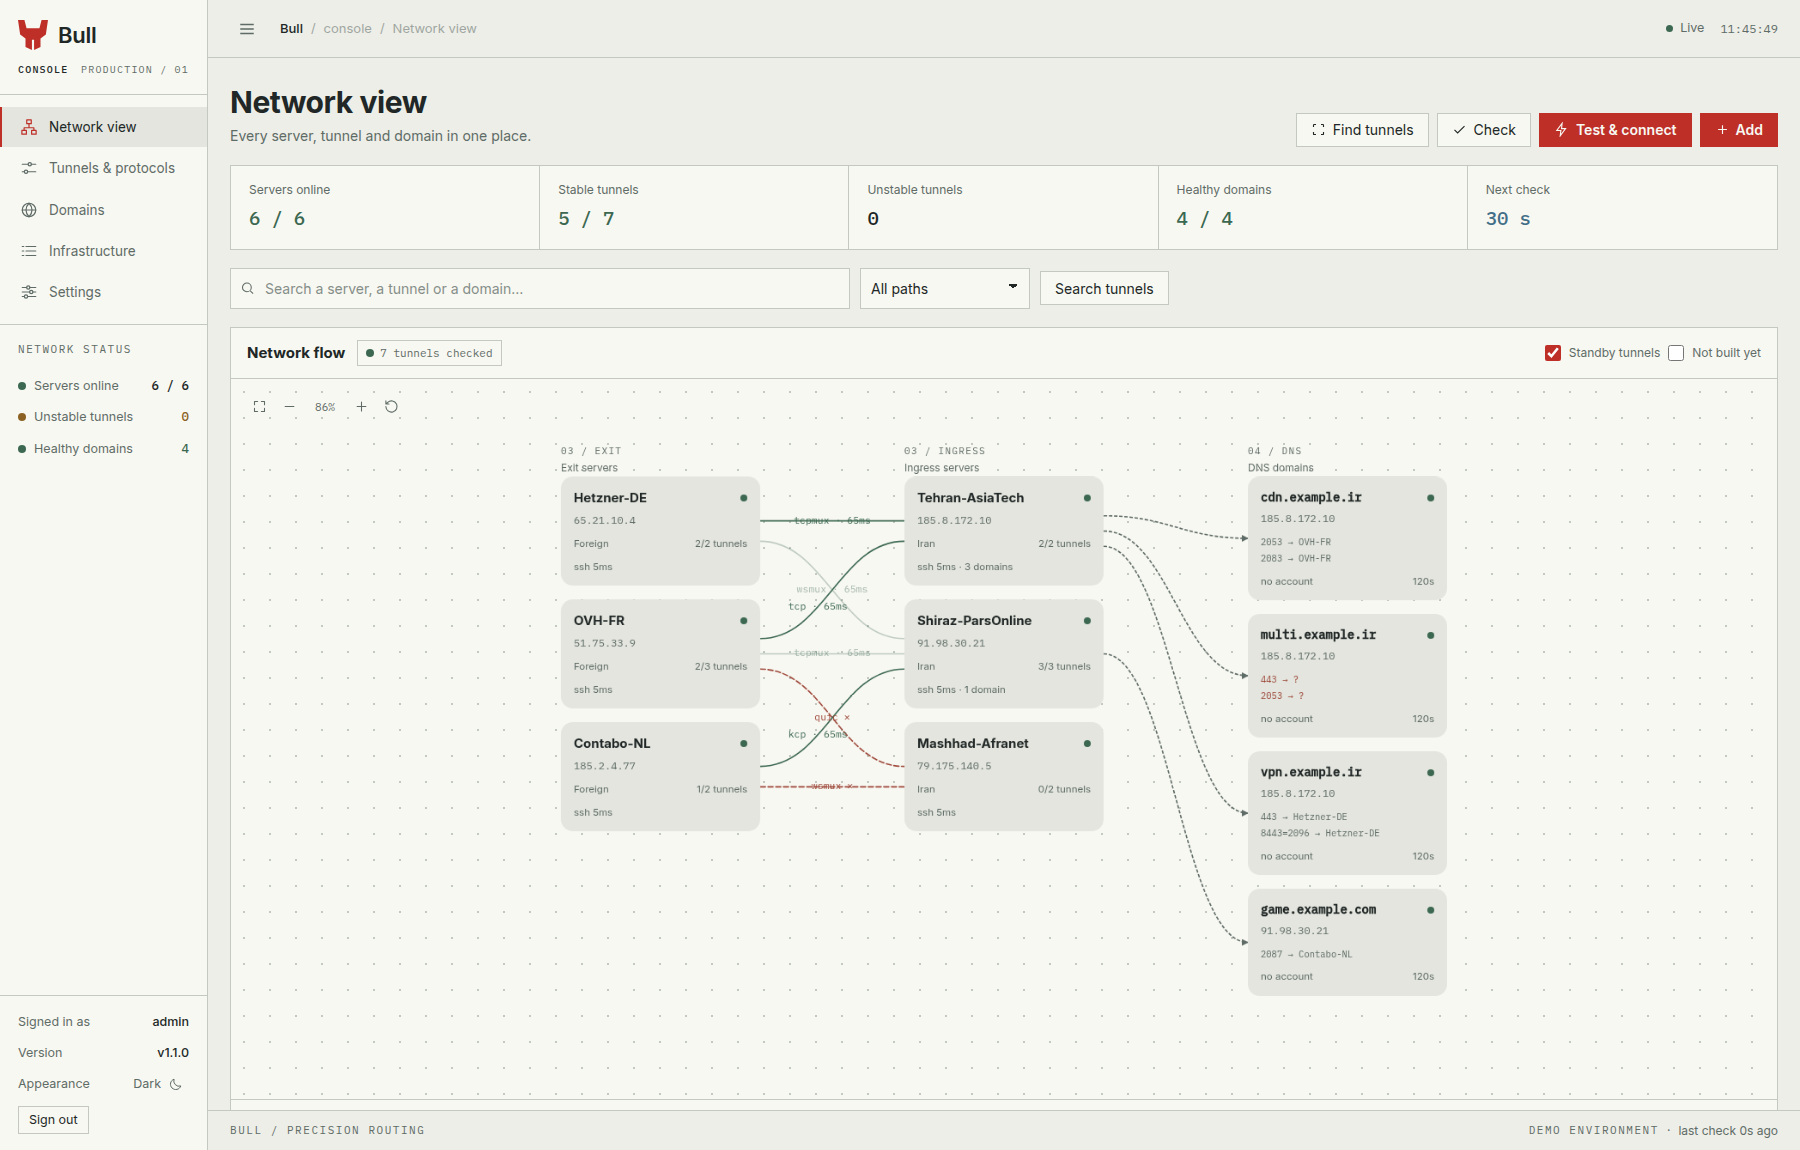
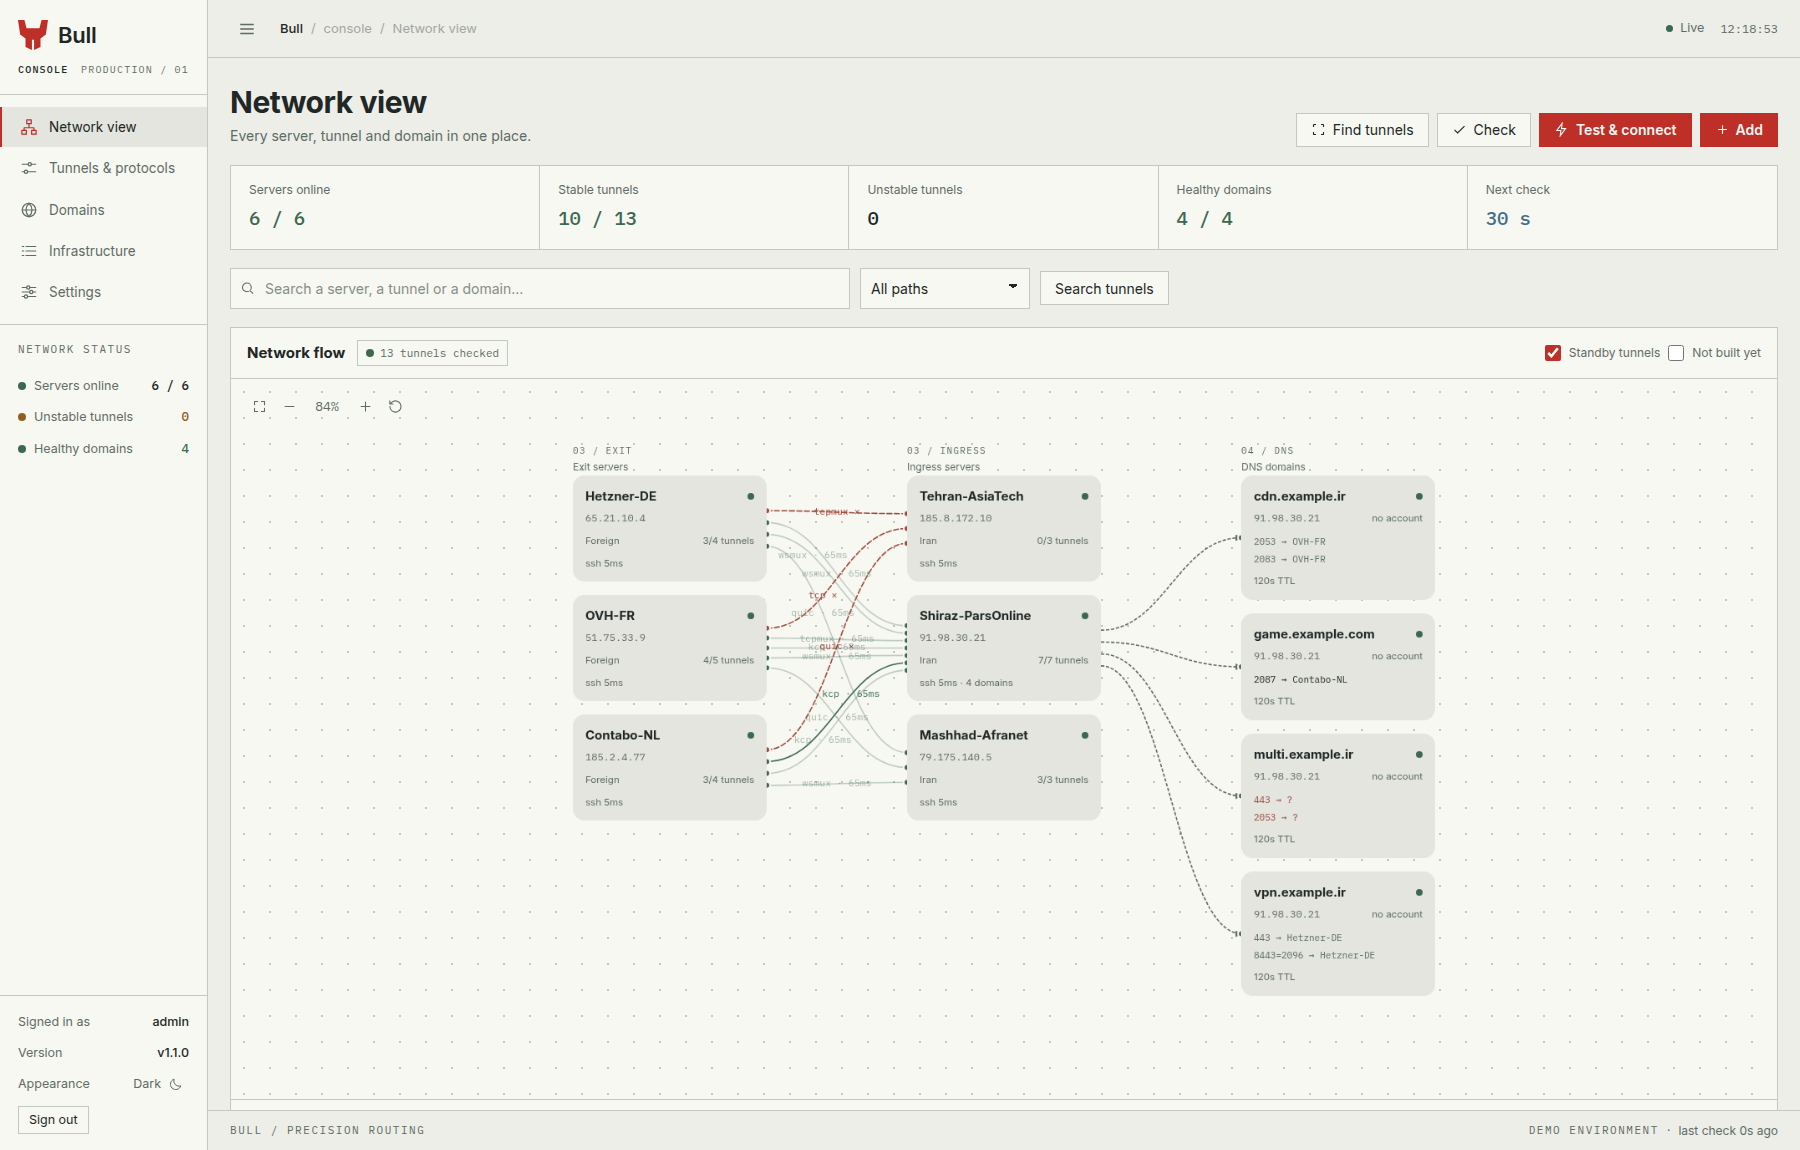
panel: the details of the nodes of the graph
The type-1 graph draws the points where a wire meets a card, in the
colour of the wire: they say which side of the card the path uses. The
cards of the panel had no such points.

The card of a domain had the wrong shape too: the name was written in
the monospace face, the DNS account sat under the address in a chip, and
every route was quiet — so the route the traffic really uses did not
stand out from the ones that are only there. The name is in the panel's
own face now, the address is on the left and the DNS account on the
right, and the route that carries the traffic is in the text colour
while the others stay quiet.

The zoom value is a little larger, the way the type-1 tools have it.

diff --git a/bulltunnel/static/app.js b/bulltunnel/static/app.js
@@ -463,11 +463,13 @@ function nodeCard(s) {
 function domainCard(d) {
   const p = provider(d.provider_id);
   const routes = (d.routes || []).slice(0, 3);
-  // the type-1 flow card lists the routes as plain lines under the address
+  // The routes of the type-1 card: the one the traffic really uses is in
+  // the text colour, the others are quiet.
   const lines = routes.map((r) => {
     const l = linkById(r.link_id);
     const ex = r.exit ? ` → ${exitText(r.exit)}` : "";
-    return `<span class="route ${r.healthy ? "" : "bad"}" title="${esc(l ? linkName(l) : "no tunnel")}">${esc(r.spec)} → ${esc(l ? nm(l.kharej_id) : "?")}${esc(ex)}</span>`;
+    const on = l && l.iran_id === d.iran_id && r.healthy;
+    return `<span class="route ${on ? "on" : r.healthy ? "" : "bad"}" title="${esc(l ? linkName(l) : "no tunnel")}">${esc(r.spec)} → ${esc(l ? nm(l.kharej_id) : "?")}${esc(ex)}</span>`;
   }).join("");
   const more = (d.routes || []).length - routes.length;
   const flags = [];
@@ -478,10 +480,10 @@ function domainCard(d) {
   return {
     cls: "fnode domain",
     html: `<div class="r1"><span class="nm">${esc(d.fqdn)}</span><span class="dot ${d.status}"></span></div>
-      <div class="ip">${esc(d.current_ip || "—")}</div>
+      <div class="ip"><span>${esc(d.current_ip || "—")}</span><span class="pname">${p ? (p.kind === "cloudflare" ? "Cloudflare" : "ArvanCloud") : "no account"}</span></div>
       ${lines ? `<div class="routes">${lines}${more > 0 ? `<span class="route muted">+${more} more</span>` : ""}</div>` : ""}
-      <div class="r3"><span class="role">${p ? (p.kind === "cloudflare" ? "Cloudflare" : "ArvanCloud") : "no account"}</span>
-      <span class="meta">${d.ttl}s${flags.length ? " · " + flags.join(" · ") : ""}</span></div>`,
+      <div class="r3"><span class="role">${d.ttl}s TTL</span>
+      <span class="meta">${flags.join(" · ")}</span></div>`,
   };
 }
 
@@ -674,6 +676,14 @@ function drawWiresNow() {
       const cls = `wire ${moved ? "handover" : e.st}${sel ? " sel" : ""}${e.standby ? " standby" : ""}`;
       parts.push(`<path class="${cls}" d="${c.d}" data-link="${l.id}"/>`);
       parts.push(`<path class="hit" d="${c.d}" data-link="${l.id}"/>`);
+      // the points where the wire meets the card, in the colour of the wire:
+      // the type-1 design draws them, and they say which side of the card the
+      // path uses
+      const colour = e.st === "up" ? "var(--ok)" : e.st === "down" ? "var(--down)"
+        : e.st === "degraded" ? "var(--degraded)" : e.st === "testing" ? "var(--testing)"
+        : moved ? "var(--forward)" : "var(--muted)";
+      parts.push(`<circle class="anchor" cx="${x1.toFixed(1)}" cy="${e.y_a.toFixed(1)}" r="4" fill="${colour}"/>`);
+      parts.push(`<circle class="anchor" cx="${x2.toFixed(1)}" cy="${e.y_b.toFixed(1)}" r="4" fill="${colour}"/>`);
       let txt;
       if (e.st === "testing") txt = "testing…";
       else if (moved) txt = `${l.transport} · ports moved`;
@@ -685,6 +695,8 @@ function drawWiresNow() {
     } else {
       const d = e.d;
       parts.push(`<path class="dwire ${d.pending_ip ? "pending-dns" : d.status}" d="${c.d}" data-domain="${d.id}"/>`);
+      // the domain card is reached from the left, and the point is marked too
+      parts.push(`<circle class="anchor" cx="${x2.toFixed(1)}" cy="${e.y_b.toFixed(1)}" r="4" fill="var(--muted)"/>`);
     }
   }
   wiresEl.innerHTML = `<defs><marker id="arrow" viewBox="0 0 10 10" refX="9" refY="5" markerWidth="5" markerHeight="5" orient="auto-start-reverse"><path d="M0 0L10 5L0 10z" fill="var(--muted)"/></marker></defs>` + parts.join("") + labels.join("");

diff --git a/bulltunnel/static/style.css b/bulltunnel/static/style.css
@@ -437,10 +437,13 @@ legend { color: var(--muted); font-size: 12px; padding: 0 6px; }
 .fnode.hl { border-color: color-mix(in srgb, var(--brand) 25%, transparent); background: color-mix(in srgb, var(--brand) 5%, var(--surface-2)); }
 .fnode .r1 { display: flex; align-items: center; gap: 8px; }
 .fnode .nm { font-weight: 650; font-size: 15px; overflow: hidden; text-overflow: ellipsis; white-space: nowrap; flex: 1; }
-.fnode .ip { font-family: var(--mono); font-size: 12px; color: var(--muted); }
+.fnode .ip { font-family: var(--mono); font-size: 12px; color: var(--muted); display: flex; align-items: baseline; gap: 10px; }
+.fnode .ip .pname { font-family: var(--font); font-size: 11.5px; margin-left: auto; }
 .fnode .r3 { display: flex; align-items: center; gap: 8px; margin-top: 5px; flex-wrap: wrap; }
-.fnode .routes { display: grid; gap: 2px; margin-top: 6px; }
-.fnode .route { font-family: var(--mono); font-size: 10.5px; color: var(--muted); overflow: hidden; text-overflow: ellipsis; white-space: nowrap; }
+.fnode .routes { display: grid; gap: 3px; margin-top: 6px; }
+.fnode .route { font-family: var(--mono); font-size: 11px; color: var(--muted); overflow: hidden; text-overflow: ellipsis; white-space: nowrap; }
+/* the route the traffic really uses is in the text colour */
+.fnode .route.on { color: var(--text); }
 .fnode .route.bad { color: var(--down); }
 .fnode .route.muted { opacity: .7; }
 /* the meta of a card is quiet text, not a row of chips */
@@ -449,7 +452,9 @@ legend { color: var(--muted); font-size: 12px; padding: 0 6px; }
 .fnode.dead { background: color-mix(in srgb, var(--down) 12%, var(--surface-2)); }
 .fnode.dim { opacity: .28; }
 .flow-world.focus .fnode:not(.hl) { opacity: .26; }
-.fnode.domain .nm { font-family: var(--mono); font-size: 14px; }
+.fnode.domain .nm { font-size: 15px; }
+/* the point where a wire meets a card, in the colour of the wire */
+.anchor { stroke: var(--surface); stroke-width: 2; }
 
 /* wires: the notation of the type-2 guide */
 .wire { fill: none; stroke-width: 1.6; stroke-linecap: round; }
@@ -504,7 +509,7 @@ legend { color: var(--muted); font-size: 12px; padding: 0 6px; }
 .flow-tools { position: absolute; left: 14px; top: 14px; display: flex; align-items: center; gap: 2px; }
 .flow-tools button { width: 28px; height: 28px; display: grid; place-items: center; color: var(--muted); cursor: pointer; background: none; border: 0; border-radius: 8px; }
 .flow-tools button:hover { color: var(--text); background: var(--surface-2); }
-.flow-tools .zv { font-family: var(--mono); font-size: 11px; color: var(--muted); min-width: 40px; text-align: center; }
+.flow-tools .zv { font-family: var(--mono); font-size: 13px; color: var(--muted); min-width: 44px; text-align: center; }
 .flow-tools svg { width: 15px; height: 15px; stroke: currentColor; fill: none; stroke-width: 1.7; stroke-linecap: round; stroke-linejoin: round; }
 
 .flow-legend { display: flex; align-items: center; gap: 16px; flex-wrap: wrap; font-size: 11.5px; color: var(--muted); }

diff --git a/bulltunnel/__init__.py b/bulltunnel/__init__.py
@@ -2,4 +2,4 @@
 tunnels between Iran and kharej servers, and moves DNS records
 (Cloudflare / ArvanCloud) when a path dies."""
 
-__version__ = "1.1.1"
+__version__ = "1.1.2"

diff --git a/TODO.md b/TODO.md
@@ -338,6 +338,11 @@ where the older, softer shape is kept.
   quiet line of meta, the state dot in the corner, and a soft tint on the
   card that is picked and on the ones the path goes through. The rows of
   chips are gone.
+* ✅ **The points where a wire meets a card are drawn**, in the colour of
+  the wire, the way the type-1 graph draws them.
+* ✅ **The card of a domain**: the name in the panel's own face, the
+  address on the left and the DNS account on the right, the route the
+  traffic really uses in the text colour and the others quiet.
 * ✅ The labels on the wires are plain text in the colour of the state, and
   the wire that is picked gets a pill around its label.
 * ✅ Every wire carries its label, the healthy ones included.
@@ -345,7 +350,8 @@ where the older, softer shape is kept.
 * ✅ The screenshots in `docs/` were taken again.
 
 **Findings closed by this commit:** the graph that was built from the type-2
-design instead of the type-1 one.
+design instead of the type-1 one, and the details of the nodes that were
+left out.
 
 ---
 

diff --git a/CHANGELOG.md b/CHANGELOG.md
@@ -20,6 +20,12 @@ with sharp ones.
   under the address, the state dot in its corner, and a soft tint on the
   card that is picked and on the ones the path goes through. The rows of
   chips are gone: the meta is text, the way the type-1 card has it.
+- **The points where a wire meets a card are drawn**, in the colour of the
+  wire, the way the type-1 graph draws them: they say which side of the
+  card the path uses.
+- **The card of a domain** has the name in the panel's own face, the
+  address on the left and the DNS account on the right, and the route the
+  traffic really uses in the text colour while the others stay quiet.
 - **The labels on the wires are plain text**, in the colour of the state,
   dimmed for the standby tunnels. The wire that is picked gets a pill
   around its label, as in the type-1 design.
